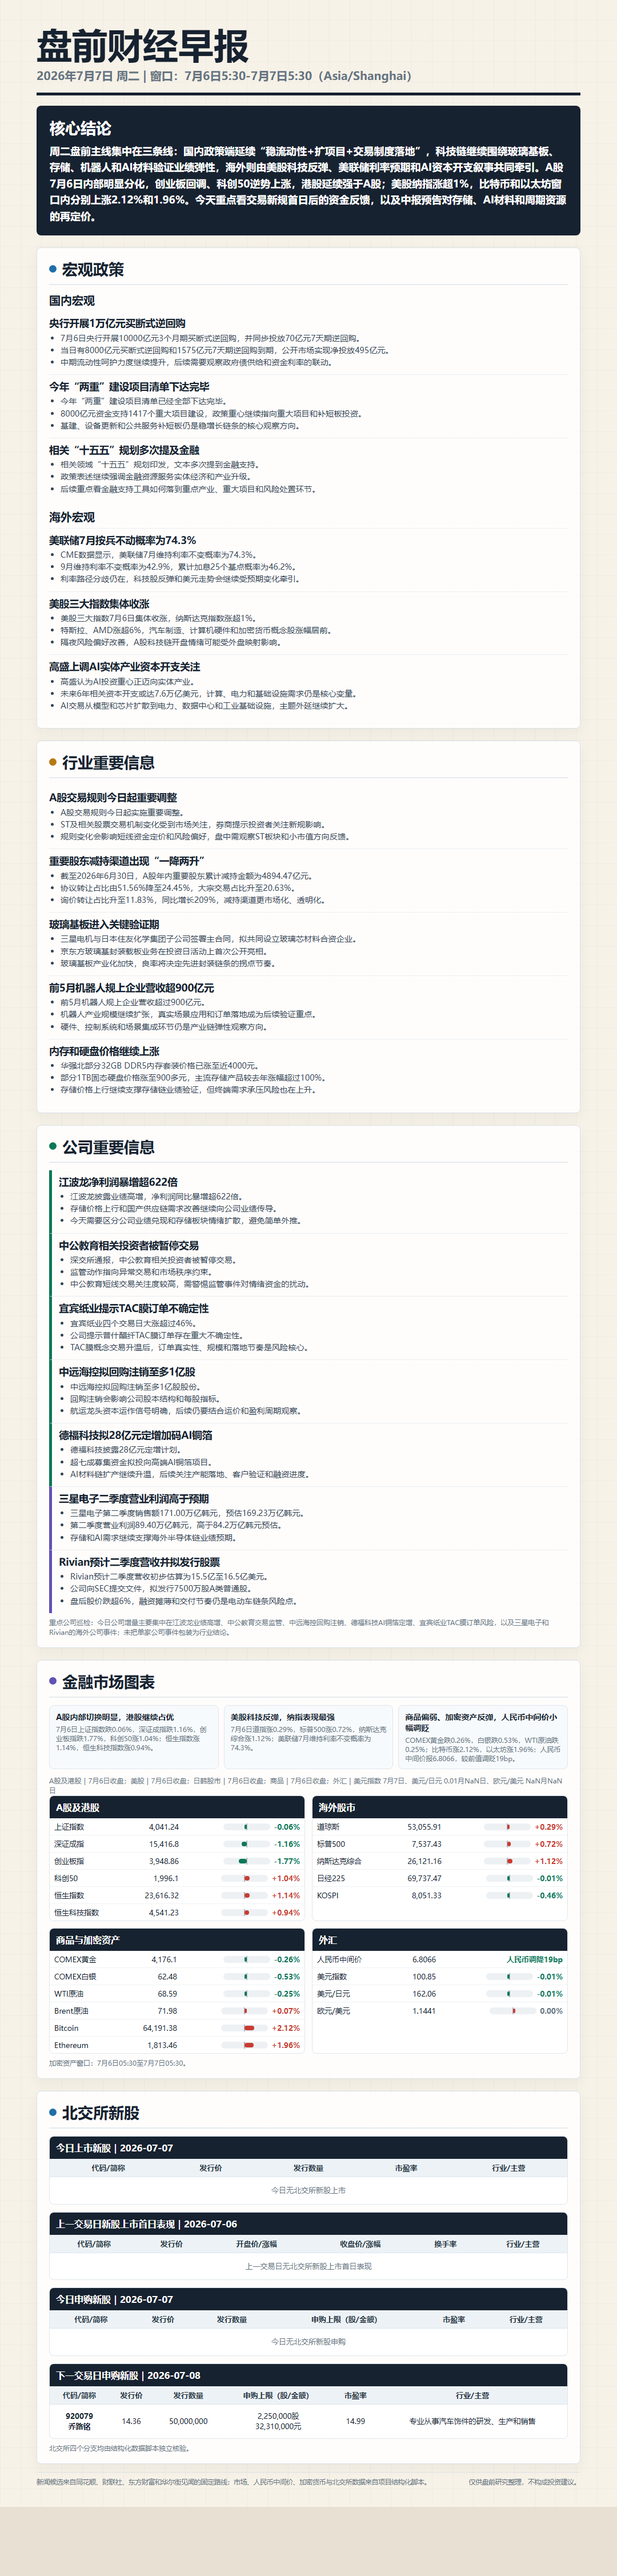
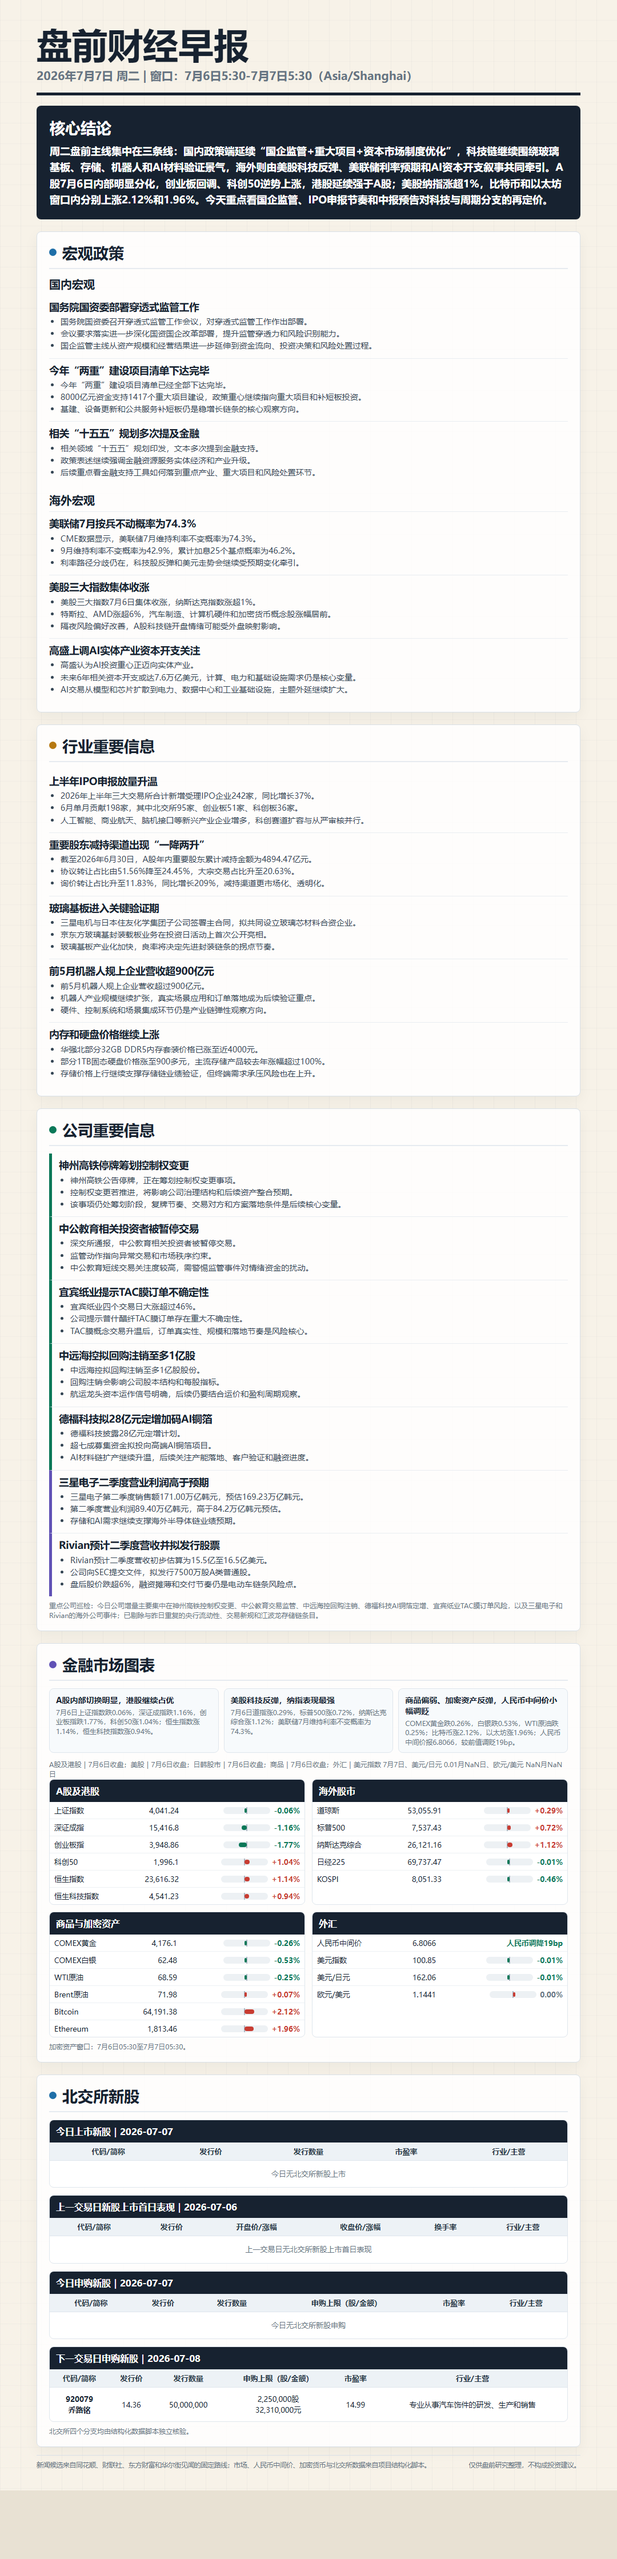
Correct 2026-07-07 morning brief

diff --git a/2026-07-07/report.html b/2026-07-07/report.html
@@ -23,11 +23,11 @@
 </head>
 <body><main class="sheet">
   <header><h1>盘前财经早报</h1><div class="date">2026年7月7日 周二 | 窗口：7月6日5:30-7月7日5:30（Asia/Shanghai）</div></header>
-  <section class="lead"><h2>核心结论</h2><p>周二盘前主线集中在三条线：国内政策端延续“稳流动性+扩项目+交易制度落地”，科技链继续围绕玻璃基板、存储、机器人和AI材料验证业绩弹性，海外则由美股科技反弹、美联储利率预期和AI资本开支叙事共同牵引。A股7月6日内部明显分化，创业板回调、科创50逆势上涨，港股延续强于A股；美股纳指涨超1%，比特币和以太坊窗口内分别上涨2.12%和1.96%。今天重点看交易新规首日后的资金反馈，以及中报预告对存储、AI材料和周期资源的再定价。</p></section>
+  <section class="lead"><h2>核心结论</h2><p>周二盘前主线集中在三条线：国内政策端延续“国企监管+重大项目+资本市场制度优化”，科技链继续围绕玻璃基板、存储、机器人和AI材料验证景气，海外则由美股科技反弹、美联储利率预期和AI资本开支叙事共同牵引。A股7月6日内部明显分化，创业板回调、科创50逆势上涨，港股延续强于A股；美股纳指涨超1%，比特币和以太坊窗口内分别上涨2.12%和1.96%。今天重点看国企监管、IPO申报节奏和中报预告对科技与周期分支的再定价。</p></section>
   <section class="section"><h2 class="section-title"><span class="dot"></span>宏观政策</h2><h3 class="subhead">国内宏观</h3>
     <article class="item ">
-      <h4>央行开展1万亿元买断式逆回购</h4>
-      <ul><li>7月6日央行开展10000亿元3个月期买断式逆回购，并同步投放70亿元7天期逆回购。</li><li>当日有8000亿元买断式逆回购和1575亿元7天期逆回购到期，公开市场实现净投放495亿元。</li><li>中期流动性呵护力度继续提升，后续需要观察政府债供给和资金利率的联动。</li></ul>
+      <h4>国务院国资委部署穿透式监管工作</h4>
+      <ul><li>国务院国资委召开穿透式监管工作会议，对穿透式监管工作作出部署。</li><li>会议要求落实进一步深化国资国企改革部署，提升监管穿透力和风险识别能力。</li><li>国企监管主线从资产规模和经营结果进一步延伸到资金流向、投资决策和风险处置过程。</li></ul>
     </article>
     <article class="item ">
       <h4>今年“两重”建设项目清单下达完毕</h4>
@@ -51,8 +51,8 @@
     </article></section>
   <section class="section"><h2 class="section-title"><span class="dot" style="background:var(--gold)"></span>行业重要信息</h2>
     <article class="item ">
-      <h4>A股交易规则今日起重要调整</h4>
-      <ul><li>A股交易规则今日起实施重要调整。</li><li>ST及相关股票交易机制变化受到市场关注，券商提示投资者关注新规影响。</li><li>规则变化会影响短线资金定价和风险偏好，盘中需观察ST板块和小市值方向反馈。</li></ul>
+      <h4>上半年IPO申报放量升温</h4>
+      <ul><li>2026年上半年三大交易所合计新增受理IPO企业242家，同比增长37%。</li><li>6月单月贡献198家，其中北交所95家、创业板51家、科创板36家。</li><li>人工智能、商业航天、脑机接口等新兴产业企业增多，科创赛道扩容与从严审核并行。</li></ul>
     </article>
     <article class="item ">
       <h4>重要股东减持渠道出现“一降两升”</h4>
@@ -72,8 +72,8 @@
     </article></section>
   <section class="section"><h2 class="section-title"><span class="dot" style="background:var(--green)"></span>公司重要信息</h2>
     <article class="item company-line">
-      <h4>江波龙净利润暴增超622倍</h4>
-      <ul><li>江波龙披露业绩高增，净利润同比暴增超622倍。</li><li>存储价格上行和国产供应链需求改善继续向公司业绩传导。</li><li>今天需要区分公司业绩兑现和存储板块情绪扩散，避免简单外推。</li></ul>
+      <h4>神州高铁停牌筹划控制权变更</h4>
+      <ul><li>神州高铁公告停牌，正在筹划控制权变更事项。</li><li>控制权变更若推进，将影响公司治理结构和后续资产整合预期。</li><li>该事项仍处筹划阶段，复牌节奏、交易对方和方案落地条件是后续核心变量。</li></ul>
     </article>
     <article class="item company-line">
       <h4>中公教育相关投资者被暂停交易</h4>
@@ -98,7 +98,7 @@
     <article class="item company-line overseas">
       <h4>Rivian预计二季度营收并拟发行股票</h4>
       <ul><li>Rivian预计二季度营收初步估算为15.5亿至16.5亿美元。</li><li>公司向SEC提交文件，拟发行7500万股A类普通股。</li><li>盘后股价跌超6%，融资摊薄和交付节奏仍是电动车链条风险点。</li></ul>
-    </article><p class="check-note">重点公司巡检：今日公司增量主要集中在江波龙业绩高增、中公教育交易监管、中远海控回购注销、德福科技AI铜箔定增、宜宾纸业TAC膜订单风险，以及三星电子和Rivian的海外公司事件；未把单家公司事件包装为行业结论。</p></section>
+    </article><p class="check-note">重点公司巡检：今日公司增量主要集中在神州高铁控制权变更、中公教育交易监管、中远海控回购注销、德福科技AI铜箔定增、宜宾纸业TAC膜订单风险，以及三星电子和Rivian的海外公司事件；已剔除与昨日重复的央行流动性、交易新规和江波龙存储链条目。</p></section>
   <section class="section"><h2 class="section-title"><span class="dot" style="background:var(--violet)"></span>金融市场图表</h2><div class="market-headlines"><div class="market-note"><b>A股内部切换明显，港股继续占优</b><span>7月6日上证指数跌0.06%，深证成指跌1.16%，创业板指跌1.77%，科创50涨1.04%；恒生指数涨1.14%，恒生科技指数涨0.94%。</span></div><div class="market-note"><b>美股科技反弹，纳指表现最强</b><span>7月6日道指涨0.29%，标普500涨0.72%，纳斯达克综合涨1.12%；美联储7月维持利率不变概率为74.3%。</span></div><div class="market-note"><b>商品偏弱、加密资产反弹，人民币中间价小幅调贬</b><span>COMEX黄金跌0.26%，白银跌0.53%，WTI原油跌0.25%；比特币涨2.12%，以太坊涨1.96%；人民币中间价报6.8066，较前值调贬19bp。</span></div></div><p class="market-caption">A股及港股｜7月6日收盘；美股｜7月6日收盘；日韩股市｜7月6日收盘；商品｜7月6日收盘；外汇｜美元指数 7月7日、美元/日元 0.01月NaN日、欧元/美元 NaN月NaN日</p><div class="market-grid"><div class="market-box"><h3>A股及港股</h3><table><tr><td>上证指数</td><td>4,041.24</td><td><span class="bar-wrap"><span class="bar neg downb" style="width:4.0px"></span></span><span class="down">-0.06%</span></td></tr><tr><td>深证成指</td><td>15,416.8</td><td><span class="bar-wrap"><span class="bar neg downb" style="width:9.3px"></span></span><span class="down">-1.16%</span></td></tr><tr><td>创业板指</td><td>3,948.86</td><td><span class="bar-wrap"><span class="bar neg downb" style="width:14.1px"></span></span><span class="down">-1.77%</span></td></tr><tr><td>科创50</td><td>1,996.1</td><td><span class="bar-wrap"><span class="bar pos upb" style="width:8.3px"></span></span><span class="up">+1.04%</span></td></tr><tr><td>恒生指数</td><td>23,616.32</td><td><span class="bar-wrap"><span class="bar pos upb" style="width:9.1px"></span></span><span class="up">+1.14%</span></td></tr><tr><td>恒生科技指数</td><td>4,541.23</td><td><span class="bar-wrap"><span class="bar pos upb" style="width:7.5px"></span></span><span class="up">+0.94%</span></td></tr></table></div><div class="market-box"><h3>海外股市</h3><table><tr><td>道琼斯</td><td>53,055.91</td><td><span class="bar-wrap"><span class="bar pos upb" style="width:4.0px"></span></span><span class="up">+0.29%</span></td></tr><tr><td>标普500</td><td>7,537.43</td><td><span class="bar-wrap"><span class="bar pos upb" style="width:5.8px"></span></span><span class="up">+0.72%</span></td></tr><tr><td>纳斯达克综合</td><td>26,121.16</td><td><span class="bar-wrap"><span class="bar pos upb" style="width:9.0px"></span></span><span class="up">+1.12%</span></td></tr><tr><td>日经225</td><td>69,737.47</td><td><span class="bar-wrap"><span class="bar neg downb" style="width:4.0px"></span></span><span class="down">-0.01%</span></td></tr><tr><td>KOSPI</td><td>8,051.33</td><td><span class="bar-wrap"><span class="bar neg downb" style="width:4.0px"></span></span><span class="down">-0.46%</span></td></tr></table></div><div class="market-box"><h3>商品与加密资产</h3><table><tr><td>COMEX黄金</td><td>4,176.1</td><td><span class="bar-wrap"><span class="bar neg downb" style="width:4.0px"></span></span><span class="down">-0.26%</span></td></tr><tr><td>COMEX白银</td><td>62.48</td><td><span class="bar-wrap"><span class="bar neg downb" style="width:4.3px"></span></span><span class="down">-0.53%</span></td></tr><tr><td>WTI原油</td><td>68.59</td><td><span class="bar-wrap"><span class="bar neg downb" style="width:4.0px"></span></span><span class="down">-0.25%</span></td></tr><tr><td>Brent原油</td><td>71.98</td><td><span class="bar-wrap"><span class="bar pos upb" style="width:4.0px"></span></span><span class="up">+0.07%</span></td></tr><tr><td>Bitcoin</td><td>64,191.38</td><td><span class="bar-wrap"><span class="bar pos upb" style="width:17.0px"></span></span><span class="up">+2.12%</span></td></tr><tr><td>Ethereum</td><td>1,813.46</td><td><span class="bar-wrap"><span class="bar pos upb" style="width:15.7px"></span></span><span class="up">+1.96%</span></td></tr></table></div><div class="market-box"><h3>外汇</h3><table><tr><td>人民币中间价</td><td>6.8066</td><td><span class="down">人民币调降19bp</span></td></tr><tr><td>美元指数</td><td>100.85</td><td><span class="bar-wrap"><span class="bar neg downb" style="width:4.0px"></span></span><span class="down">-0.01%</span></td></tr><tr><td>美元/日元</td><td>162.06</td><td><span class="bar-wrap"><span class="bar neg downb" style="width:4.0px"></span></span><span class="down">-0.01%</span></td></tr><tr><td>欧元/美元</td><td>1.1441</td><td><span class="bar-wrap"><span class="bar pos upb" style="width:4.0px"></span></span><span class="flat">0.00%</span></td></tr></table></div></div><p class="market-caption">加密资产窗口：7月6日05:30至7月7日05:30。</p></section>
   <section class="section"><h2 class="section-title"><span class="dot" style="background:var(--blue)"></span>北交所新股</h2><div class="ipo-box"><h3>今日上市新股｜2026-07-07</h3><table class="ipo-table"><tr><th>代码/简称</th><th>发行价</th><th>发行数量</th><th>市盈率</th><th>行业/主营</th></tr><tr><td class="empty" colspan="5">今日无北交所新股上市</td></tr></table></div><div class="ipo-box"><h3>上一交易日新股上市首日表现｜2026-07-06</h3><table class="ipo-table"><tr><th>代码/简称</th><th>发行价</th><th>开盘价/涨幅</th><th>收盘价/涨幅</th><th>换手率</th><th>行业/主营</th></tr><tr><td class="empty" colspan="6">上一交易日无北交所新股上市首日表现</td></tr></table></div><div class="ipo-box"><h3>今日申购新股｜2026-07-07</h3><table class="ipo-table"><tr><th>代码/简称</th><th>发行价</th><th>发行数量</th><th>申购上限（股/金额）</th><th>市盈率</th><th>行业/主营</th></tr><tr><td class="empty" colspan="6">今日无北交所新股申购</td></tr></table></div><div class="ipo-box"><h3>下一交易日申购新股｜2026-07-08</h3><table class="ipo-table"><tr><th>代码/简称</th><th>发行价</th><th>发行数量</th><th>申购上限（股/金额）</th><th>市盈率</th><th>行业/主营</th></tr><tr><td class="codecell">920079<br>乔路铭</td><td>14.36</td><td>50,000,000</td><td class="shares">2,250,000股<br>32,310,000元</td><td>14.99</td><td>专业从事汽车饰件的研发、生产和销售</td></tr></table></div><div class="check-note">北交所四个分支均由结构化数据脚本独立核验。</div></section>
   <footer><div>新闻候选来自同花顺、财联社、东方财富和华尔街见闻的固定路线；市场、人民币中间价、加密货币与北交所数据来自项目结构化脚本。</div><div>仅供盘前研究整理，不构成投资建议。</div></footer>

diff --git a/2026-07-07/sources-2026-07-07.md b/2026-07-07/sources-2026-07-07.md
@@ -10,18 +10,18 @@
 
 ## News items
 
-- domesticMacro: 央行开展1万亿元买断式逆回购 - https://www.cls.cn/detail/2418587
+- domesticMacro: 国务院国资委部署穿透式监管工作 - https://news.10jqka.com.cn/20260706/c677986741.shtml
 - domesticMacro: 今年“两重”建设项目清单下达完毕 - https://news.10jqka.com.cn/20260707/c677989978.shtml
 - domesticMacro: 相关“十五五”规划多次提及金融 - https://news.10jqka.com.cn/20260706/c677985283.shtml
 - overseasMacro: 美联储7月按兵不动概率为74.3% - https://www.cls.cn/detail/2418579
 - overseasMacro: 美股三大指数集体收涨 - https://finance.eastmoney.com/a/202607063795404837.html
 - overseasMacro: 高盛上调AI实体产业资本开支关注 - https://wallstreetcn.com/livenews/3129433
-- industry: A股交易规则今日起重要调整 - https://finance.eastmoney.com/a/202607063794375980.html
+- industry: 上半年IPO申报放量升温 - https://wallstreetcn.com/livenews/3129594
 - industry: 重要股东减持渠道出现“一降两升” - https://www.cls.cn/detail/2418582
 - industry: 玻璃基板进入关键验证期 - https://www.cls.cn/detail/2418585
 - industry: 前5月机器人规上企业营收超900亿元 - https://wallstreetcn.com/livenews/3129591
 - industry: 内存和硬盘价格继续上涨 - https://www.cls.cn/detail/2418583
-- domesticCompanies: 江波龙净利润暴增超622倍 - https://finance.eastmoney.com/a/202607053794304492.html
+- domesticCompanies: 神州高铁停牌筹划控制权变更 - https://finance.eastmoney.com/a/202607063795504931.html
 - domesticCompanies: 中公教育相关投资者被暂停交易 - https://finance.eastmoney.com/a/202607063795505954.html
 - domesticCompanies: 宜宾纸业提示TAC膜订单不确定性 - https://finance.eastmoney.com/a/202607073795528882.html
 - domesticCompanies: 中远海控拟回购注销至多1亿股 - https://finance.eastmoney.com/a/202607073795524647.html
